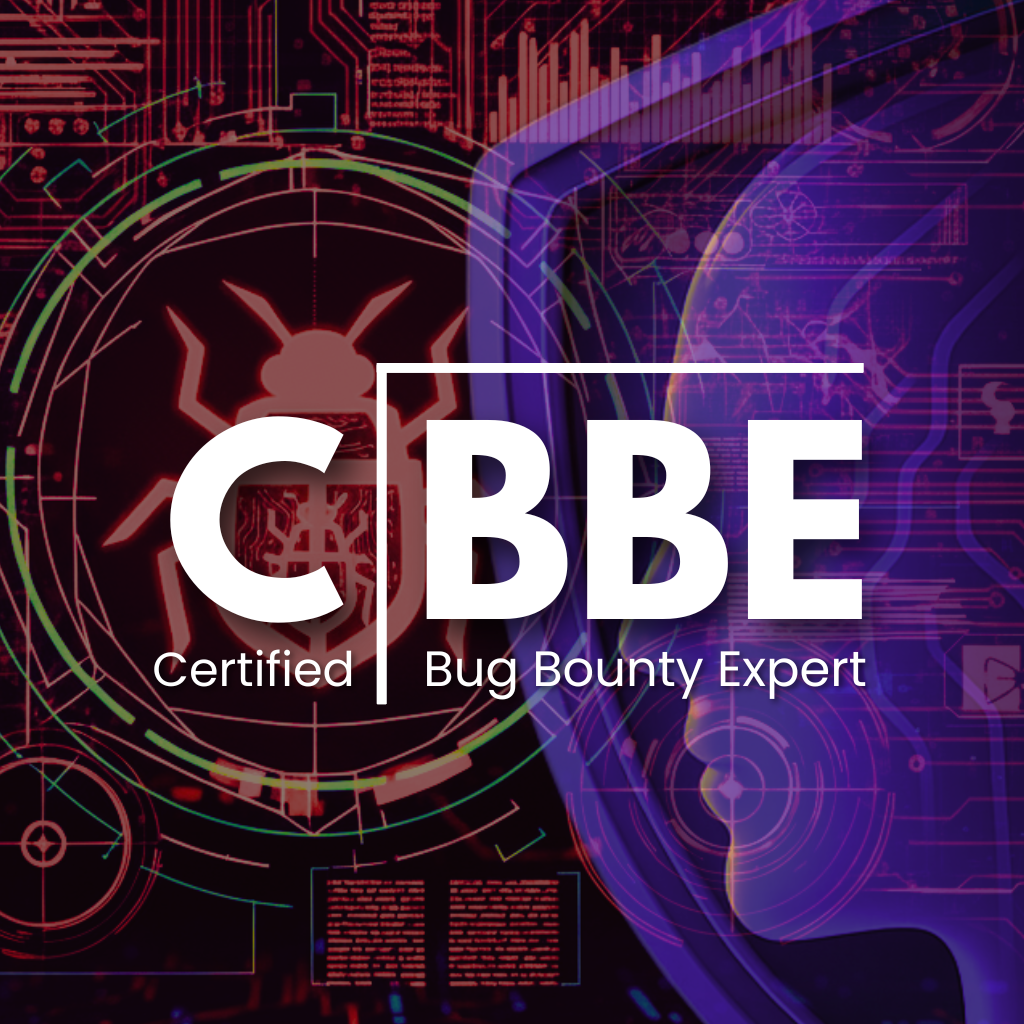
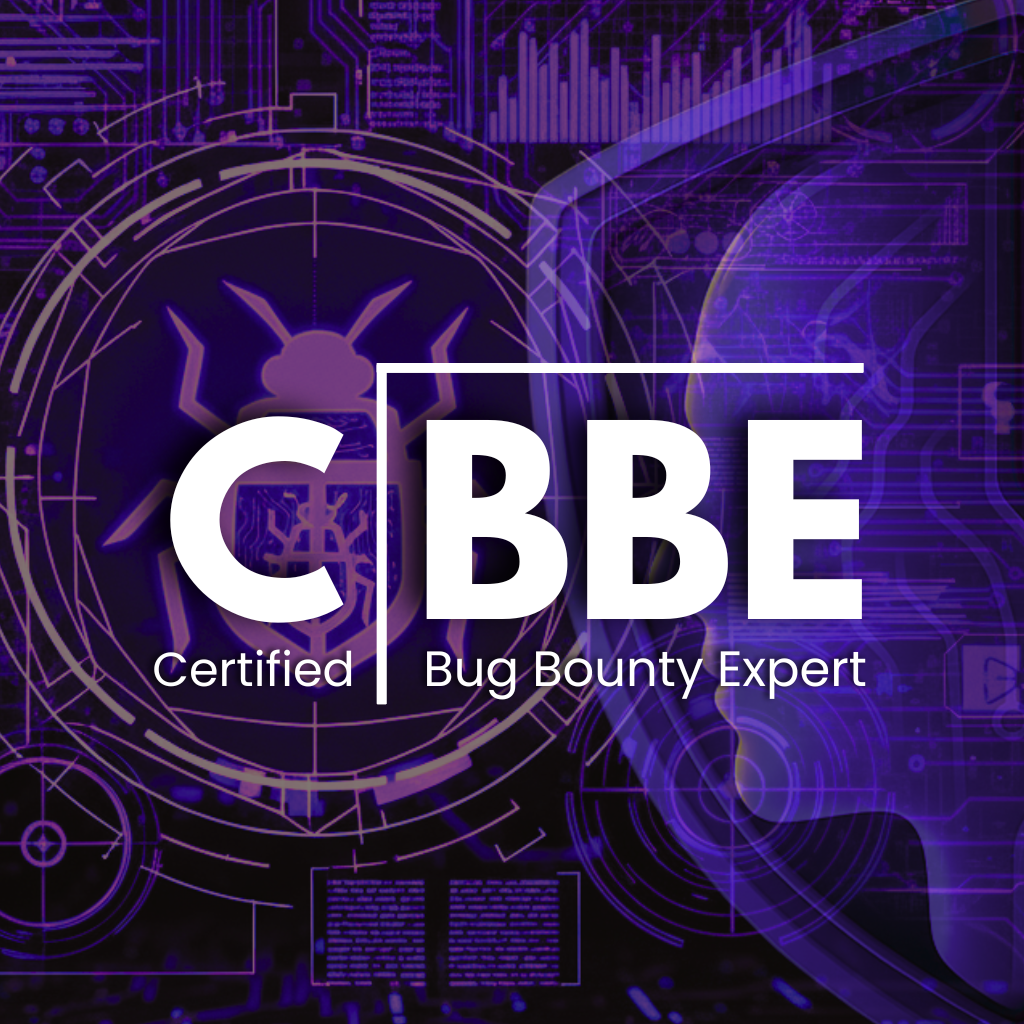
desktop view & image update

diff --git a/src/app/page.tsx b/src/app/page.tsx
@@ -19,12 +19,12 @@ import AgeSection from "@/app/age";
 function Hero() {
   return (
     <section className="relative text-white">
-      <div className="relative max-w-6xl mx-auto px-6 py-20 flex flex-col md:flex-row items-center gap-12">
+      <div className="relative max-w-7xl mx-auto px-6 py-20 grid grid-cols-1 lg:grid-cols-2 gap-12 items-center">
         {/* Left Content */}
         <div className="flex-1 text-center md:text-left">
           <motion.h2
             className="text-[36px] sm:text-[48px] md:text-[94px] font-extrabold leading-tight 
-                       -mt-4 md:-mt-8 md:-ml-40"
+                       -mt-4 md:-mt-8 md:-ml-25"
             initial={{ opacity: 0.5, y: 10 }}
             animate={{ opacity: 1, y: 0 }}
             transition={{ duration: 0.8, ease: 'easeOut' }}
@@ -36,7 +36,7 @@ function Hero() {
 
           <motion.p
             className="mt-4 sm:mt-6 text-base sm:text-lg md:text-[21px] font-semibold 
-                       md:ml-[-155px] max-w-1xl mx-auto md:mx-0 px-2"
+                       md:ml-[-100px] max-w-1xl mx-auto md:mx-0 px-2"
             initial={{ opacity: 0.5, y: 10 }}
             animate={{ opacity: 1, y: 0 }}
             transition={{ delay: 0.3, duration: 0.8, ease: 'easeOut' }}
@@ -51,7 +51,7 @@ function Hero() {
               whileHover={{ scale: 1.05, boxShadow: "0 0 15px rgba(0,255,255,0.4)" }}
               whileTap={{ scale: 0.95 }}
               className="inline-flex items-center justify-center rounded-[15px] border px-6 py-4 font-semibold transition-all duration-200
-                         md:relative md:-left-36"
+                         md:relative md:-left-24"
             >
               Find Courses
             </motion.a>
@@ -61,7 +61,7 @@ function Hero() {
               whileHover={{ scale: 1.05, boxShadow: "0 0 15px rgba(0,255,255,0.4)" }}
               whileTap={{ scale: 0.95 }}
               className="inline-flex items-center justify-center rounded-[15px] border px-6 py-3 transition-all duration-200
-                         md:relative md:-left-35"
+                         md:relative md:-left-24"
             >
               Contact Admissions
             </motion.a>
@@ -69,7 +69,7 @@ function Hero() {
         </div>
 
         {/* Right Side Card */}
-        <div className="w-full md:w-auto flex justify-center md:justify-end mt-10 md:mt-0">
+        <div className="w-full md:w-auto flex justify-center md:justify-end mt-10 mr-15 md:mt-0">
           <UpcomingBatchCard />
         </div>
       </div>
